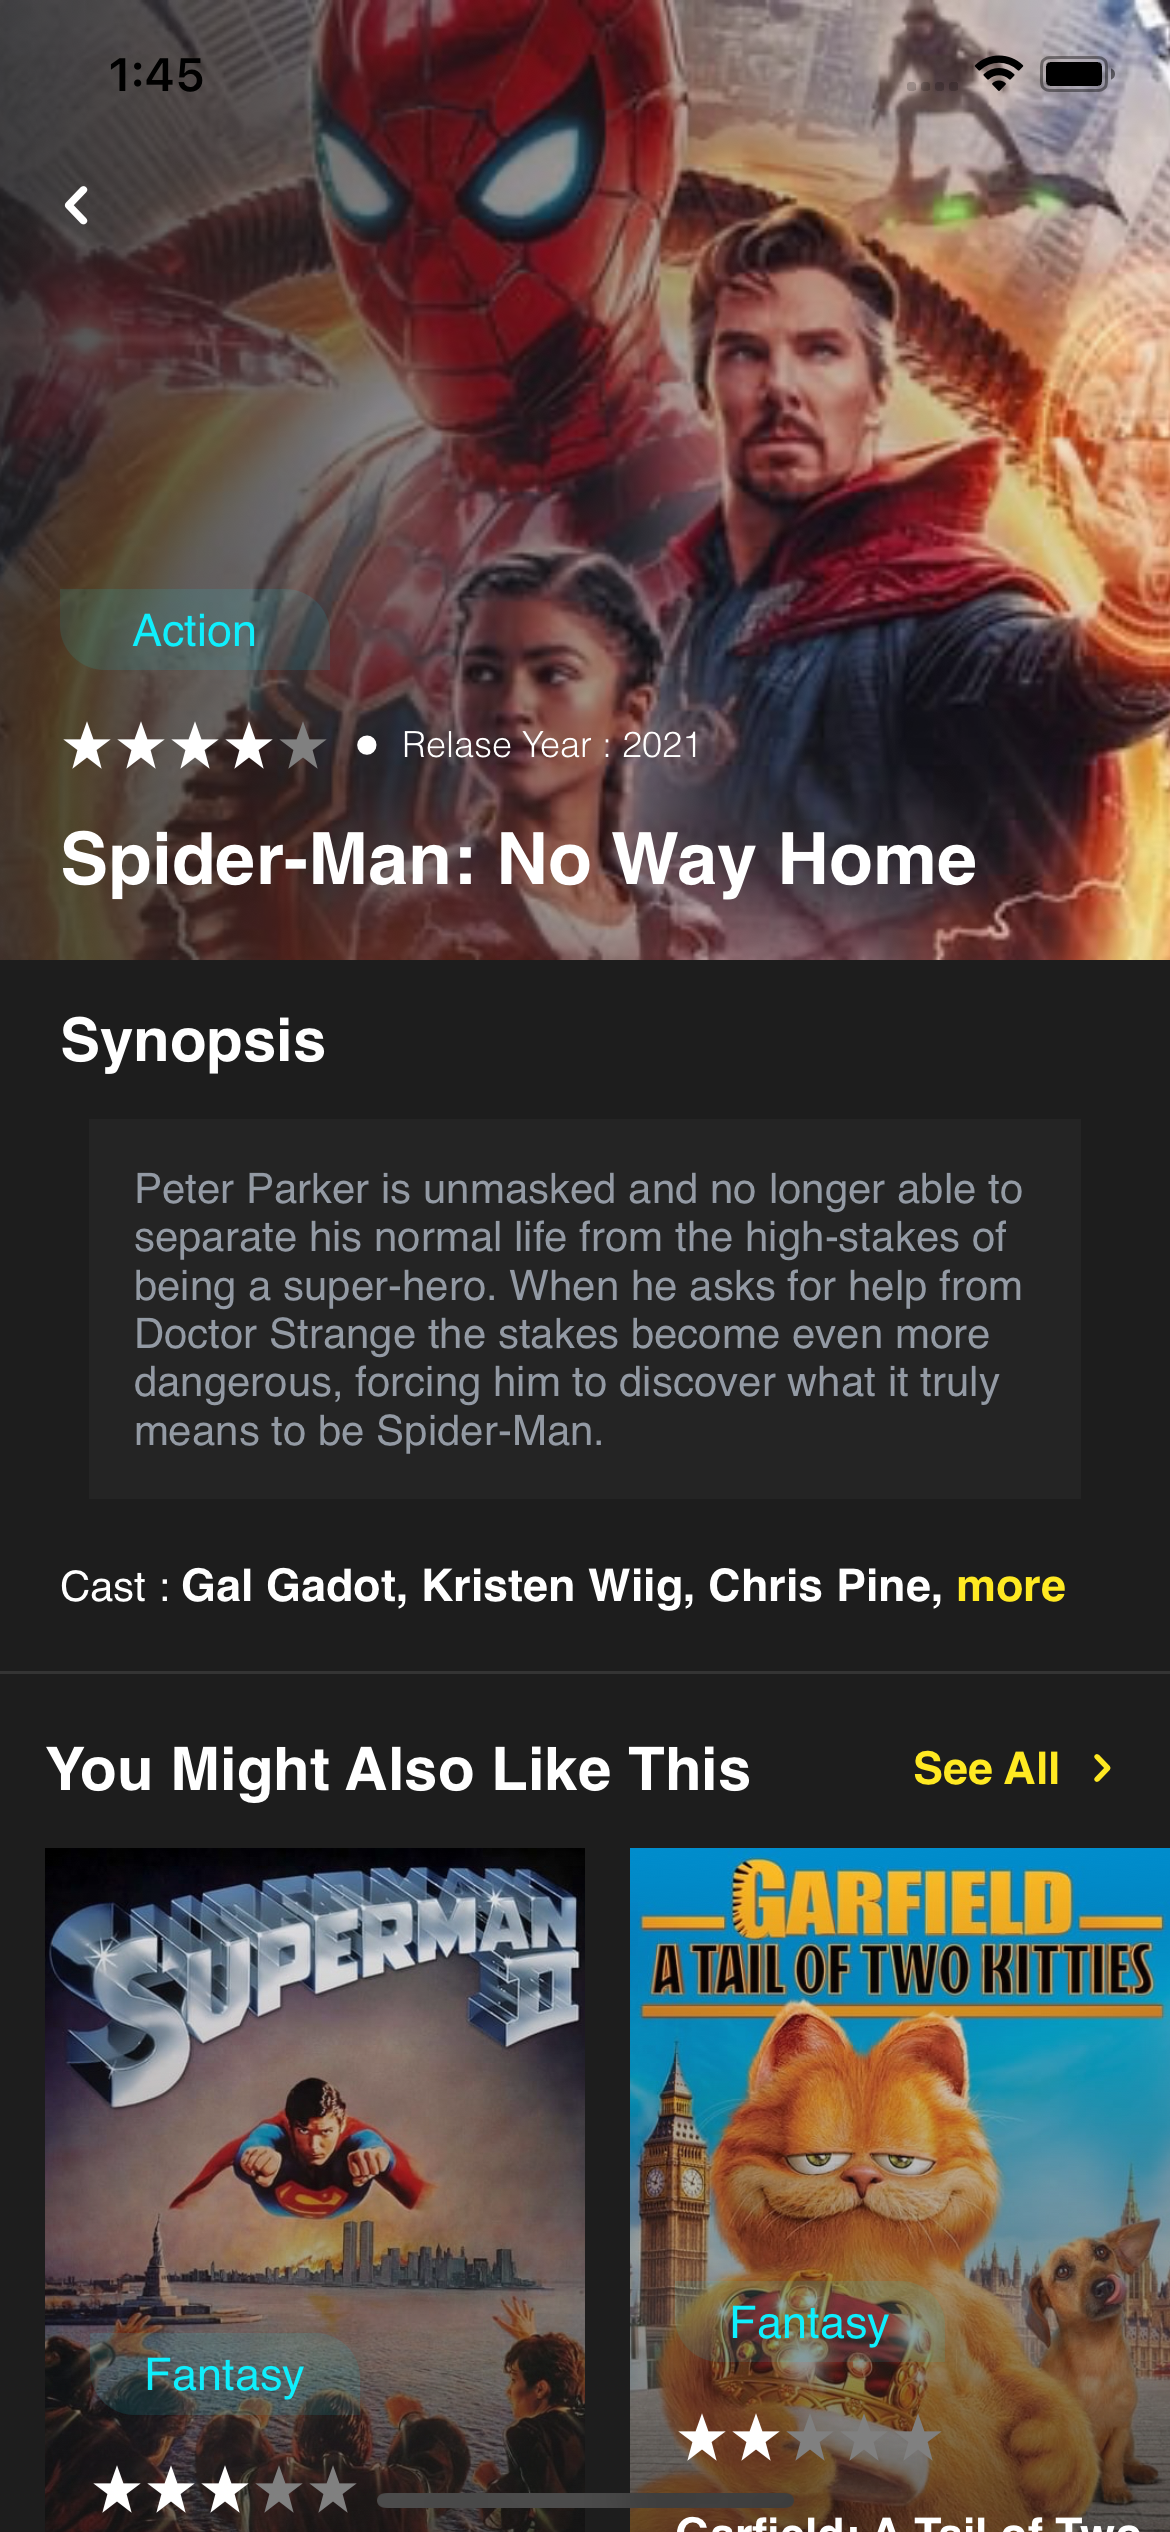
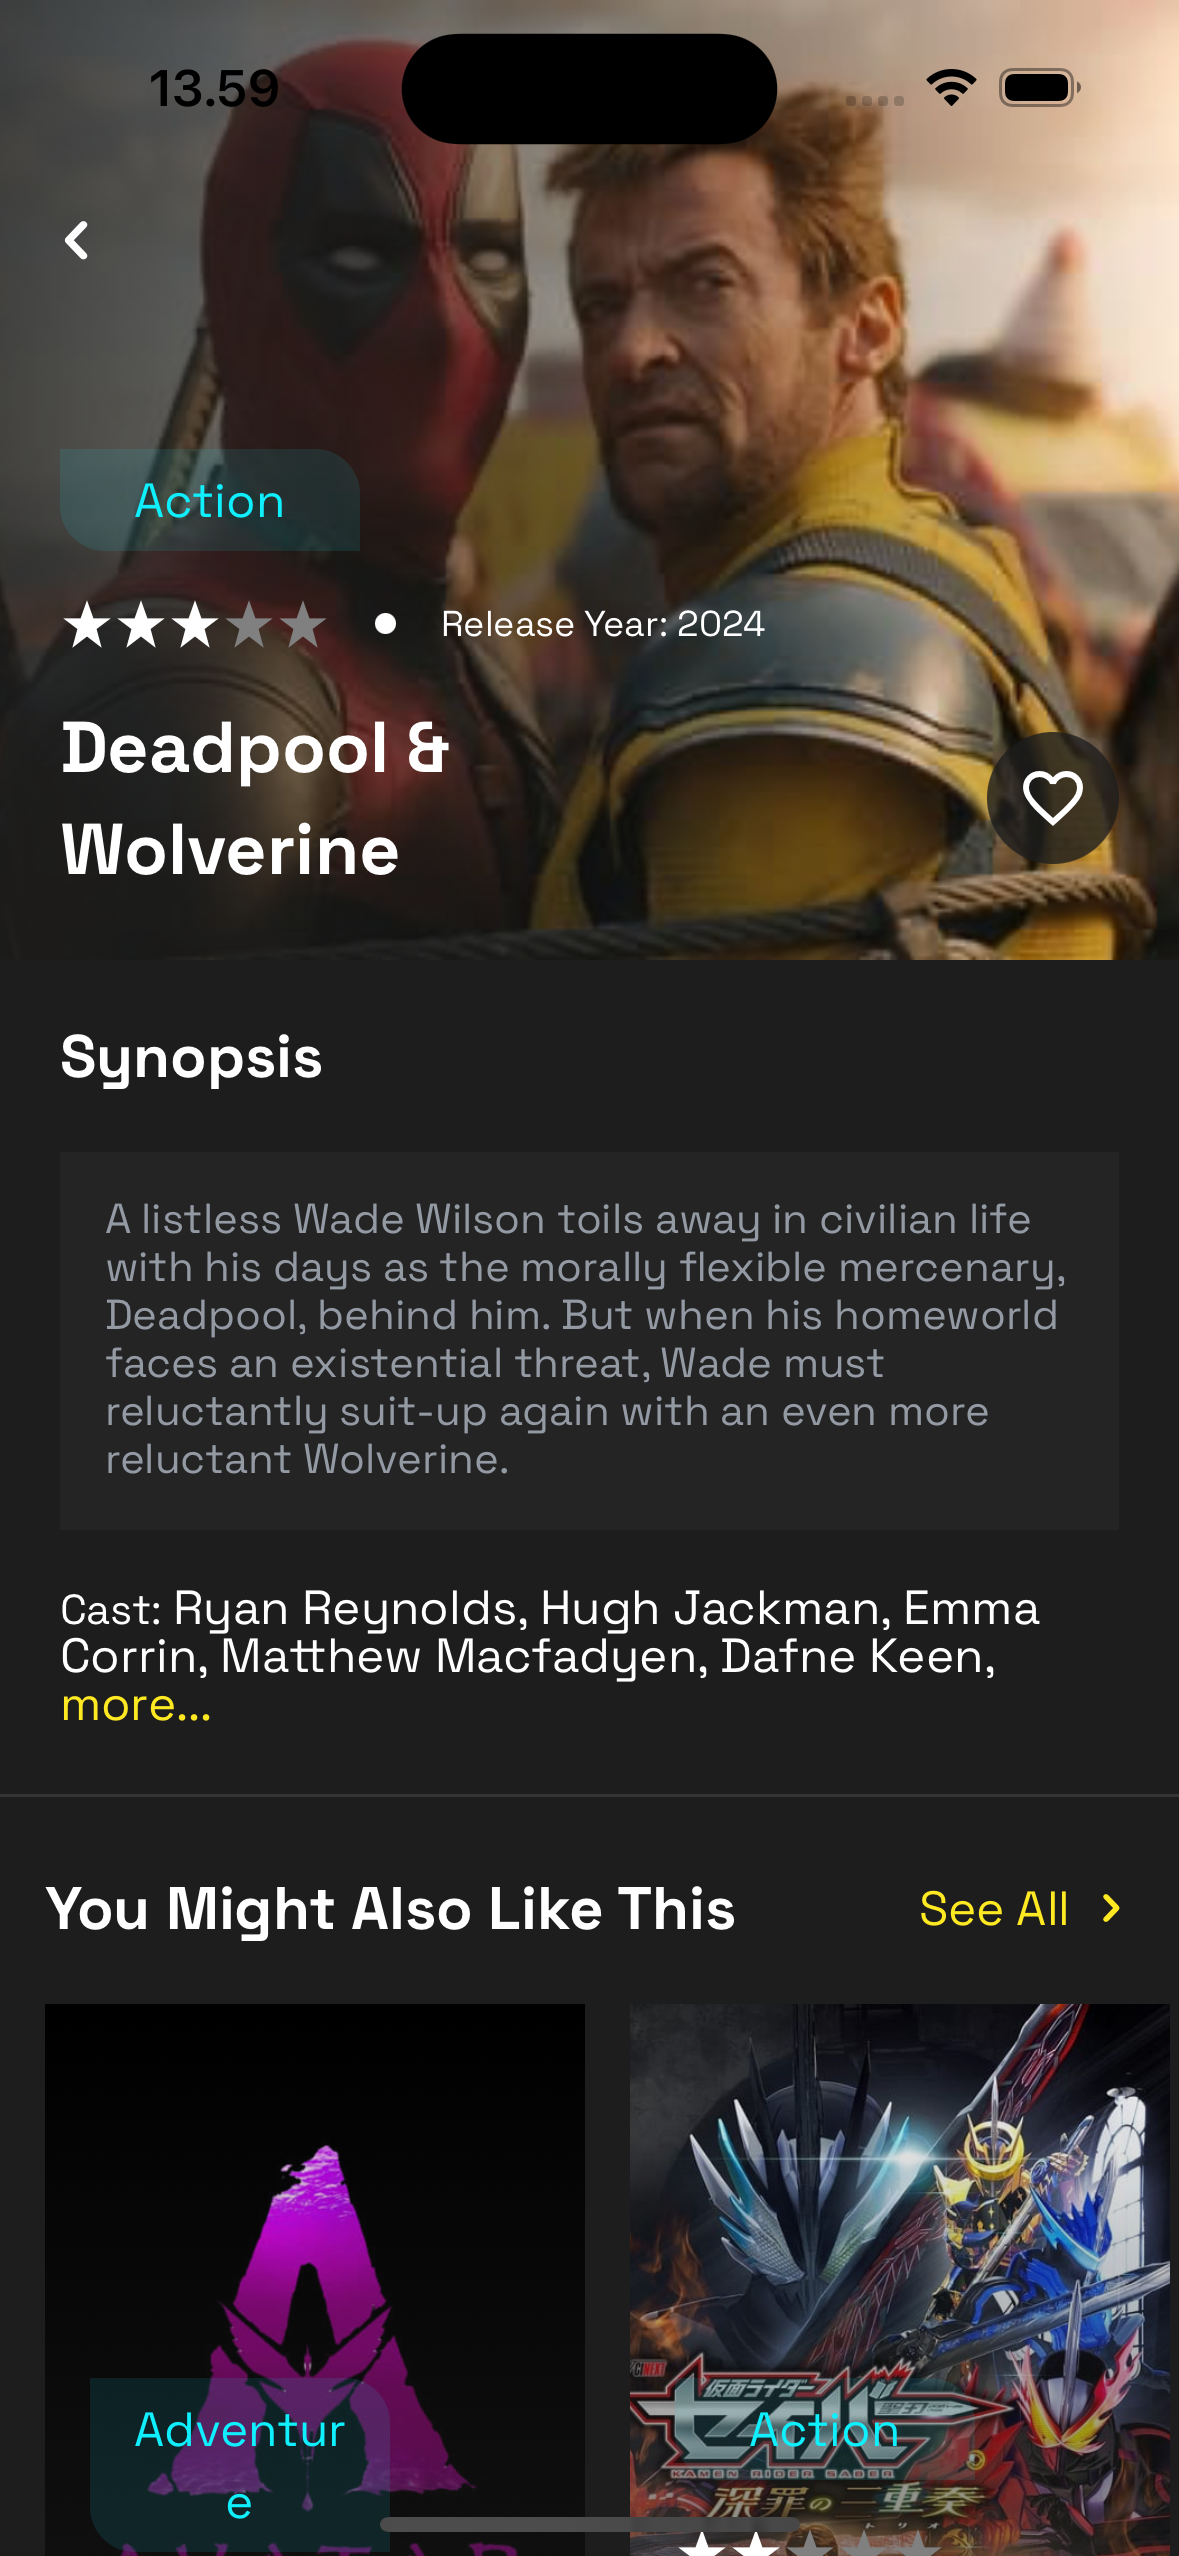
update new build app

diff --git a/README.md b/README.md
@@ -1,13 +1,15 @@
 # Movie App 
+Movie App is a mobile application that displays a list of popular movies, top-rated movies, detailed movie information, favorite movie, including cast details, genres in list. This app uses Expo - React Native and several additional libraries for animation and data management.
 
 ## Preview
 [<img src="screenshot/main.png" width="250"/>](main.png)
 [<img src="screenshot/detail.png" width="250"/>](detail.png)
-
+[<img src="screenshot/favorite.png" width="250"/>](favorite.png)
+[<img src="screenshot/more_movies.png" width="250"/>](movie_movies.png)
 
 
 ### Currently includes:
-- [Demo App](https://expo.dev/@jul.dev/MovieApp)
+- [Demo Android App](https://drive.google.com/file/d/1WH8XuoNEVQUAV8rCO-DRWkqAarlQPmh_/view?usp=sharing)
 - Expo CLI
 - React Native
 - React Navigation
@@ -15,10 +17,44 @@
 - TypeScript
 - And more!
 
+
+### Instalasi
+
+1. Clone this repository
+
+```bash
+git clone https://github.com/M-Julius/Movie-App.git
+```
+
+2. Install dependencies
+
+```bash
+cd Movie-App
+npm install
+```
+3. Setup environment in ```app/config/config.dev.ts``` and ```app/config/config.prod.ts```
+```javascript
+const API_URL = "https://api.themoviedb.org/3"
+const API_KEY = "" // add your API_KEY TMDB
+const URI_STORAGE = "https://image.tmdb.org/t/p/w500"
+```
+[Get API_KEY](https://developer.themoviedb.org/reference/intro/getting-started)
+
+4. Run a
+
+```bash
+npx expo start
+```
+
+5. Select your devices
+
+
 ### Feature App:
-- [x] Now Playing Movie
-- [x] Popular Movie
-- [x] Top Rated Movie
+- [x] Now Playing Movies
+- [x] Popular Movies
+- [x] Top Rated Movies
 - [x] Detail Movie
-- [x] Similar Movie
-- [ ] List More Movie 
+- [x] Similar Movies
+- [x] List More Movies
+- [x] Favorite Movies
+- [x] Genres Movies
